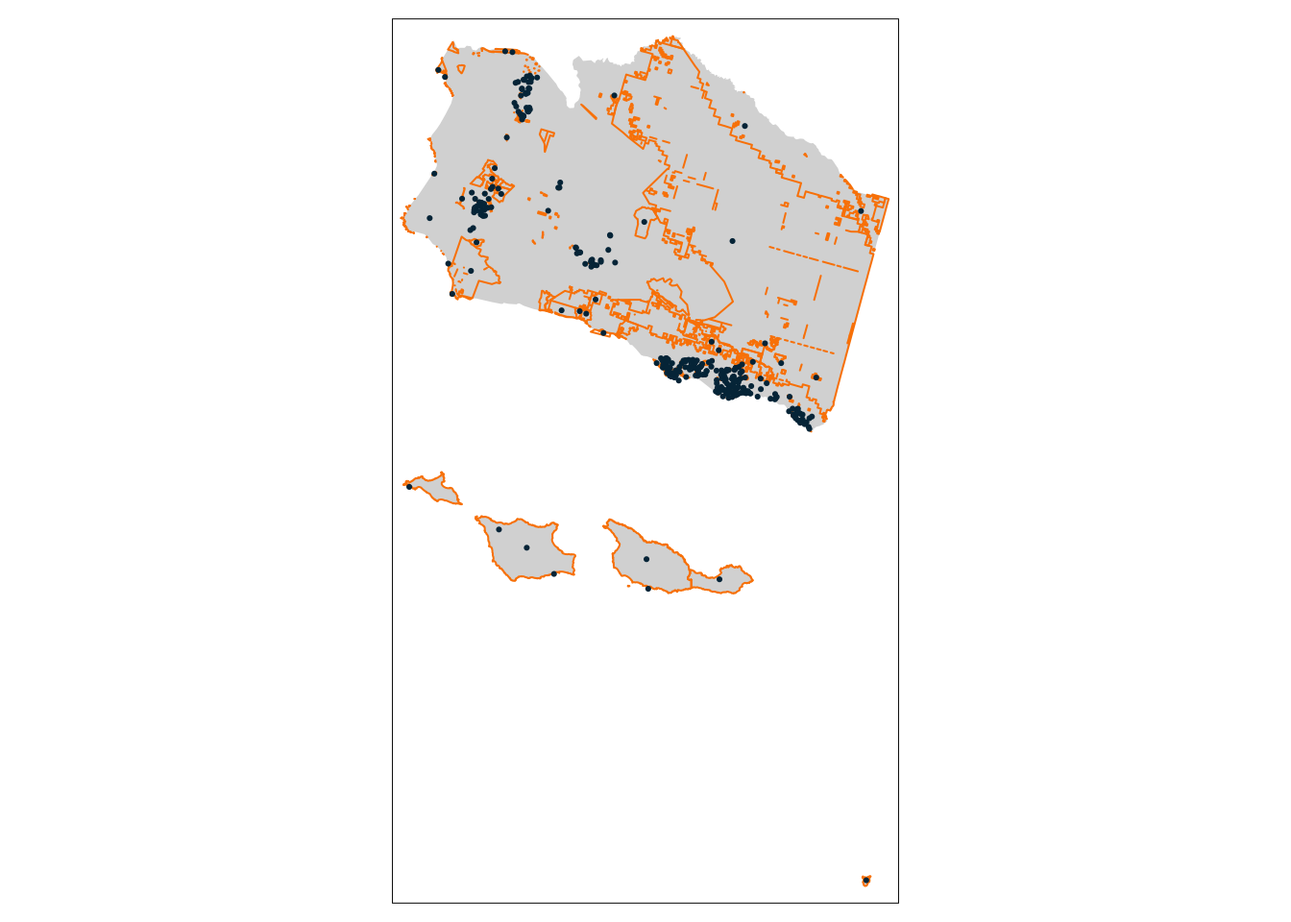
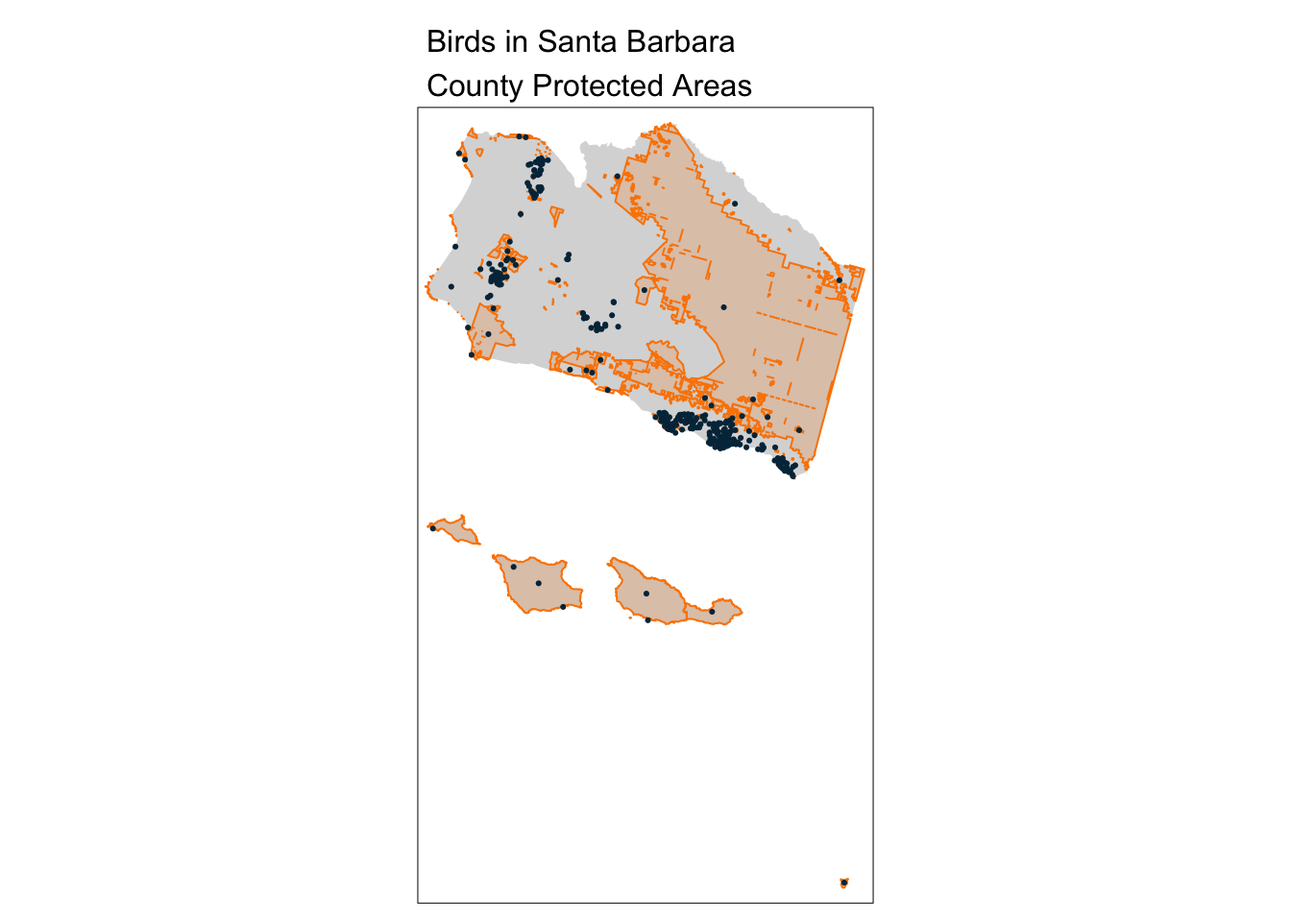
Render website

Changed region(s): [[0.3125, 0.0312, 0.6875, 0.5312], [0.3125, 0.5, 0.5938, 0.6875], [0.6562, 0.9375, 0.6875, 0.9688]]

diff --git a/docs/course-materials/discussions/answer-keys/week3-discussion-answerKey.html b/docs/course-materials/discussions/answer-keys/week3-discussion-answerKey.html
@@ -253,8 +253,22 @@ pre > code.sourceCode > span > a:first-child::before { text-decoration: underlin
 <span id="cb2-14"><a href="#cb2-14" aria-hidden="true" tabindex="-1"></a>aves <span class="ot">&lt;-</span> <span class="fu">read_sf</span>(here<span class="sc">::</span><span class="fu">here</span>(<span class="st">"data"</span>, <span class="st">"aves_observations_2020_2024.shp"</span>)) <span class="sc">%&gt;%</span></span>
 <span id="cb2-15"><a href="#cb2-15" aria-hidden="true" tabindex="-1"></a>  <span class="fu">st_transform</span>(<span class="st">"ESRI:102009"</span>)</span></code><button title="Copy to Clipboard" class="code-copy-button"><i class="bi"></i></button></pre></div>
 </div>
-<p>Approach with spatial subset: - Spatially subset the PA geometries to only those with bird observations</p>
+<p>Approach with spatial subset:</p>
+<ul>
+<li>Spatially subset the PA geometries to only those with bird observations</li>
+</ul>
 <div class="cell">
+<div class="sourceCode cell-code" id="cb3"><pre class="sourceCode r code-with-copy"><code class="sourceCode r"><span id="cb3-1"><a href="#cb3-1" aria-hidden="true" tabindex="-1"></a>aves_PA_subset <span class="ot">&lt;-</span> sb_protected_areas[aves, ]</span>
+<span id="cb3-2"><a href="#cb3-2" aria-hidden="true" tabindex="-1"></a></span>
+<span id="cb3-3"><a href="#cb3-3" aria-hidden="true" tabindex="-1"></a><span class="fu">tm_shape</span>(sb_county_boundary) <span class="sc">+</span></span>
+<span id="cb3-4"><a href="#cb3-4" aria-hidden="true" tabindex="-1"></a>  <span class="fu">tm_fill</span>() <span class="sc">+</span></span>
+<span id="cb3-5"><a href="#cb3-5" aria-hidden="true" tabindex="-1"></a>  <span class="fu">tm_shape</span>(sb_protected_areas) <span class="sc">+</span></span>
+<span id="cb3-6"><a href="#cb3-6" aria-hidden="true" tabindex="-1"></a>    <span class="fu">tm_borders</span>(<span class="at">lwd =</span> <span class="dv">1</span>, <span class="at">col =</span> <span class="st">"#fb8500"</span>) <span class="sc">+</span></span>
+<span id="cb3-7"><a href="#cb3-7" aria-hidden="true" tabindex="-1"></a>    <span class="fu">tm_fill</span>(<span class="at">col =</span> <span class="st">"#fb8500"</span>, <span class="at">alpha =</span> <span class="fl">0.2</span>) <span class="sc">+</span></span>
+<span id="cb3-8"><a href="#cb3-8" aria-hidden="true" tabindex="-1"></a>  <span class="fu">tm_shape</span>(aves_PA_subset) <span class="sc">+</span></span>
+<span id="cb3-9"><a href="#cb3-9" aria-hidden="true" tabindex="-1"></a>    <span class="fu">tm_dots</span>(<span class="at">col =</span> <span class="st">"#023047"</span>) <span class="sc">+</span></span>
+<span id="cb3-10"><a href="#cb3-10" aria-hidden="true" tabindex="-1"></a>  <span class="fu">tm_layout</span>(<span class="at">main.title =</span> <span class="st">"Birds in Santa Barbara</span><span class="sc">\n</span><span class="st">County Protected Areas"</span>,</span>
+<span id="cb3-11"><a href="#cb3-11" aria-hidden="true" tabindex="-1"></a>            <span class="at">main.title.size =</span> <span class="dv">1</span>)</span></code><button title="Copy to Clipboard" class="code-copy-button"><i class="bi"></i></button></pre></div>
 <div class="cell-output-display">
 <div>
 <figure class="figure">
@@ -262,22 +276,27 @@ pre > code.sourceCode > span > a:first-child::before { text-decoration: underlin
 </figure>
 </div>
 </div>
+<div class="sourceCode cell-code" id="cb4"><pre class="sourceCode r code-with-copy"><code class="sourceCode r"><span id="cb4-1"><a href="#cb4-1" aria-hidden="true" tabindex="-1"></a><span class="fu">nrow</span>(aves_PA_subset)</span></code><button title="Copy to Clipboard" class="code-copy-button"><i class="bi"></i></button></pre></div>
 <div class="cell-output cell-output-stdout">
 <pre><code>[1] 35</code></pre>
 </div>
 </div>
-<p>Approach with a spatial join: - Append the Protected Area geometries to the bird observation geometries</p>
+<p>Approach with a spatial join:</p>
+<ul>
+<li>Append the Protected Area geometries to the bird observation geometries</li>
+</ul>
 <div class="cell">
-<div class="sourceCode cell-code" id="cb4"><pre class="sourceCode r code-with-copy"><code class="sourceCode r"><span id="cb4-1"><a href="#cb4-1" aria-hidden="true" tabindex="-1"></a>aves_PA_join <span class="ot">&lt;-</span> <span class="fu">st_join</span>(aves, sb_protected_areas)</span>
-<span id="cb4-2"><a href="#cb4-2" aria-hidden="true" tabindex="-1"></a></span>
-<span id="cb4-3"><a href="#cb4-3" aria-hidden="true" tabindex="-1"></a><span class="fu">tm_shape</span>(sb_county_boundary) <span class="sc">+</span></span>
-<span id="cb4-4"><a href="#cb4-4" aria-hidden="true" tabindex="-1"></a>  <span class="fu">tm_fill</span>() <span class="sc">+</span></span>
-<span id="cb4-5"><a href="#cb4-5" aria-hidden="true" tabindex="-1"></a>  <span class="fu">tm_shape</span>(sb_protected_areas) <span class="sc">+</span></span>
-<span id="cb4-6"><a href="#cb4-6" aria-hidden="true" tabindex="-1"></a>  <span class="fu">tm_borders</span>(<span class="at">lwd =</span> <span class="dv">1</span>, <span class="at">col =</span> <span class="st">"#fb8500"</span>) <span class="sc">+</span></span>
-<span id="cb4-7"><a href="#cb4-7" aria-hidden="true" tabindex="-1"></a>  <span class="fu">tm_shape</span>(aves_PA_join) <span class="sc">+</span></span>
-<span id="cb4-8"><a href="#cb4-8" aria-hidden="true" tabindex="-1"></a>  <span class="fu">tm_dots</span>(<span class="at">col =</span> <span class="st">"#023047"</span>) <span class="sc">+</span></span>
-<span id="cb4-9"><a href="#cb4-9" aria-hidden="true" tabindex="-1"></a>  <span class="fu">tm_layout</span>(<span class="at">main.title =</span> <span class="st">"Birds in Santa Barbara</span><span class="sc">\n</span><span class="st">County Protected Areas"</span>,</span>
-<span id="cb4-10"><a href="#cb4-10" aria-hidden="true" tabindex="-1"></a>            <span class="at">main.title.size =</span> <span class="dv">1</span>)</span></code><button title="Copy to Clipboard" class="code-copy-button"><i class="bi"></i></button></pre></div>
+<div class="sourceCode cell-code" id="cb6"><pre class="sourceCode r code-with-copy"><code class="sourceCode r"><span id="cb6-1"><a href="#cb6-1" aria-hidden="true" tabindex="-1"></a>aves_PA_join <span class="ot">&lt;-</span> <span class="fu">st_join</span>(aves, sb_protected_areas)</span>
+<span id="cb6-2"><a href="#cb6-2" aria-hidden="true" tabindex="-1"></a></span>
+<span id="cb6-3"><a href="#cb6-3" aria-hidden="true" tabindex="-1"></a><span class="fu">tm_shape</span>(sb_county_boundary) <span class="sc">+</span></span>
+<span id="cb6-4"><a href="#cb6-4" aria-hidden="true" tabindex="-1"></a>  <span class="fu">tm_fill</span>() <span class="sc">+</span></span>
+<span id="cb6-5"><a href="#cb6-5" aria-hidden="true" tabindex="-1"></a>  <span class="fu">tm_shape</span>(sb_protected_areas) <span class="sc">+</span></span>
+<span id="cb6-6"><a href="#cb6-6" aria-hidden="true" tabindex="-1"></a>    <span class="fu">tm_borders</span>(<span class="at">lwd =</span> <span class="dv">1</span>, <span class="at">col =</span> <span class="st">"#fb8500"</span>) <span class="sc">+</span></span>
+<span id="cb6-7"><a href="#cb6-7" aria-hidden="true" tabindex="-1"></a>    <span class="fu">tm_fill</span>(<span class="at">col =</span> <span class="st">"#fb8500"</span>, <span class="at">alpha =</span> <span class="fl">0.2</span>) <span class="sc">+</span></span>
+<span id="cb6-8"><a href="#cb6-8" aria-hidden="true" tabindex="-1"></a>  <span class="fu">tm_shape</span>(aves_PA_join) <span class="sc">+</span></span>
+<span id="cb6-9"><a href="#cb6-9" aria-hidden="true" tabindex="-1"></a>    <span class="fu">tm_dots</span>(<span class="at">col =</span> <span class="st">"#023047"</span>) <span class="sc">+</span></span>
+<span id="cb6-10"><a href="#cb6-10" aria-hidden="true" tabindex="-1"></a>  <span class="fu">tm_layout</span>(<span class="at">main.title =</span> <span class="st">"Birds in Santa Barbara</span><span class="sc">\n</span><span class="st">County Protected Areas"</span>,</span>
+<span id="cb6-11"><a href="#cb6-11" aria-hidden="true" tabindex="-1"></a>            <span class="at">main.title.size =</span> <span class="dv">1</span>)</span></code><button title="Copy to Clipboard" class="code-copy-button"><i class="bi"></i></button></pre></div>
 <div class="cell-output-display">
 <div>
 <figure class="figure">
@@ -285,31 +304,33 @@ pre > code.sourceCode > span > a:first-child::before { text-decoration: underlin
 </figure>
 </div>
 </div>
-<div class="sourceCode cell-code" id="cb5"><pre class="sourceCode r code-with-copy"><code class="sourceCode r"><span id="cb5-1"><a href="#cb5-1" aria-hidden="true" tabindex="-1"></a><span class="fu">nrow</span>(aves_PA_join)</span></code><button title="Copy to Clipboard" class="code-copy-button"><i class="bi"></i></button></pre></div>
+<div class="sourceCode cell-code" id="cb7"><pre class="sourceCode r code-with-copy"><code class="sourceCode r"><span id="cb7-1"><a href="#cb7-1" aria-hidden="true" tabindex="-1"></a><span class="fu">nrow</span>(aves_PA_join)</span></code><button title="Copy to Clipboard" class="code-copy-button"><i class="bi"></i></button></pre></div>
 <div class="cell-output cell-output-stdout">
 <pre><code>[1] 500</code></pre>
 </div>
 </div>
 <p>And try adding a 5 km buffer around the protected areas:</p>
 <div class="cell">
-<div class="sourceCode cell-code" id="cb7"><pre class="sourceCode r code-with-copy"><code class="sourceCode r"><span id="cb7-1"><a href="#cb7-1" aria-hidden="true" tabindex="-1"></a><span class="co"># Check if units are in meters</span></span>
-<span id="cb7-2"><a href="#cb7-2" aria-hidden="true" tabindex="-1"></a><span class="fu">st_crs</span>(sb_protected_areas)<span class="sc">$</span>units</span></code><button title="Copy to Clipboard" class="code-copy-button"><i class="bi"></i></button></pre></div>
+<div class="sourceCode cell-code" id="cb9"><pre class="sourceCode r code-with-copy"><code class="sourceCode r"><span id="cb9-1"><a href="#cb9-1" aria-hidden="true" tabindex="-1"></a><span class="co"># Check if units are in meters</span></span>
+<span id="cb9-2"><a href="#cb9-2" aria-hidden="true" tabindex="-1"></a><span class="fu">st_crs</span>(sb_protected_areas)<span class="sc">$</span>units</span></code><button title="Copy to Clipboard" class="code-copy-button"><i class="bi"></i></button></pre></div>
 <div class="cell-output cell-output-stdout">
 <pre><code>[1] "m"</code></pre>
 </div>
-<div class="sourceCode cell-code" id="cb9"><pre class="sourceCode r code-with-copy"><code class="sourceCode r"><span id="cb9-1"><a href="#cb9-1" aria-hidden="true" tabindex="-1"></a><span class="co"># Create 5000m buffer around PAs</span></span>
-<span id="cb9-2"><a href="#cb9-2" aria-hidden="true" tabindex="-1"></a>PA_buffer_5km <span class="ot">&lt;-</span> <span class="fu">st_buffer</span>(sb_protected_areas, <span class="at">dist =</span> <span class="dv">5000</span>)</span>
-<span id="cb9-3"><a href="#cb9-3" aria-hidden="true" tabindex="-1"></a></span>
-<span id="cb9-4"><a href="#cb9-4" aria-hidden="true" tabindex="-1"></a><span class="co"># Subset the buffered PA geoms to only those with bird observations</span></span>
-<span id="cb9-5"><a href="#cb9-5" aria-hidden="true" tabindex="-1"></a>aves_buffer_subset <span class="ot">&lt;-</span> PA_buffer_5km[aves, ]</span>
-<span id="cb9-6"><a href="#cb9-6" aria-hidden="true" tabindex="-1"></a></span>
-<span id="cb9-7"><a href="#cb9-7" aria-hidden="true" tabindex="-1"></a><span class="fu">tm_shape</span>(sb_county_boundary) <span class="sc">+</span></span>
-<span id="cb9-8"><a href="#cb9-8" aria-hidden="true" tabindex="-1"></a>  <span class="fu">tm_fill</span>() <span class="sc">+</span></span>
-<span id="cb9-9"><a href="#cb9-9" aria-hidden="true" tabindex="-1"></a>  <span class="fu">tm_shape</span>(sb_protected_areas) <span class="sc">+</span></span>
-<span id="cb9-10"><a href="#cb9-10" aria-hidden="true" tabindex="-1"></a>  <span class="fu">tm_borders</span>(<span class="at">lwd =</span> <span class="dv">1</span>,</span>
-<span id="cb9-11"><a href="#cb9-11" aria-hidden="true" tabindex="-1"></a>             <span class="at">col =</span> <span class="st">"#fb8500"</span>) <span class="sc">+</span></span>
-<span id="cb9-12"><a href="#cb9-12" aria-hidden="true" tabindex="-1"></a>  <span class="fu">tm_shape</span>(aves_buffer_subset) <span class="sc">+</span></span>
-<span id="cb9-13"><a href="#cb9-13" aria-hidden="true" tabindex="-1"></a>  <span class="fu">tm_dots</span>(<span class="at">col =</span> <span class="st">"#023047"</span>)</span></code><button title="Copy to Clipboard" class="code-copy-button"><i class="bi"></i></button></pre></div>
+<div class="sourceCode cell-code" id="cb11"><pre class="sourceCode r code-with-copy"><code class="sourceCode r"><span id="cb11-1"><a href="#cb11-1" aria-hidden="true" tabindex="-1"></a><span class="co"># Create 5000m buffer around PAs</span></span>
+<span id="cb11-2"><a href="#cb11-2" aria-hidden="true" tabindex="-1"></a>PA_buffer_5km <span class="ot">&lt;-</span> <span class="fu">st_buffer</span>(sb_protected_areas, <span class="at">dist =</span> <span class="dv">5000</span>)</span>
+<span id="cb11-3"><a href="#cb11-3" aria-hidden="true" tabindex="-1"></a></span>
+<span id="cb11-4"><a href="#cb11-4" aria-hidden="true" tabindex="-1"></a><span class="co"># Subset the buffered PA geoms to only those with bird observations</span></span>
+<span id="cb11-5"><a href="#cb11-5" aria-hidden="true" tabindex="-1"></a>aves_buffer_subset <span class="ot">&lt;-</span> PA_buffer_5km[aves, ]</span>
+<span id="cb11-6"><a href="#cb11-6" aria-hidden="true" tabindex="-1"></a></span>
+<span id="cb11-7"><a href="#cb11-7" aria-hidden="true" tabindex="-1"></a><span class="fu">tm_shape</span>(sb_county_boundary) <span class="sc">+</span></span>
+<span id="cb11-8"><a href="#cb11-8" aria-hidden="true" tabindex="-1"></a>  <span class="fu">tm_fill</span>() <span class="sc">+</span></span>
+<span id="cb11-9"><a href="#cb11-9" aria-hidden="true" tabindex="-1"></a>  <span class="fu">tm_shape</span>(sb_protected_areas) <span class="sc">+</span></span>
+<span id="cb11-10"><a href="#cb11-10" aria-hidden="true" tabindex="-1"></a>    <span class="fu">tm_borders</span>(<span class="at">lwd =</span> <span class="dv">1</span>, <span class="at">col =</span> <span class="st">"#fb8500"</span>) <span class="sc">+</span></span>
+<span id="cb11-11"><a href="#cb11-11" aria-hidden="true" tabindex="-1"></a>    <span class="fu">tm_fill</span>(<span class="at">col =</span> <span class="st">"#fb8500"</span>, <span class="at">alpha =</span> <span class="fl">0.2</span>) <span class="sc">+</span></span>
+<span id="cb11-12"><a href="#cb11-12" aria-hidden="true" tabindex="-1"></a>  <span class="fu">tm_shape</span>(aves_buffer_subset) <span class="sc">+</span></span>
+<span id="cb11-13"><a href="#cb11-13" aria-hidden="true" tabindex="-1"></a>  <span class="fu">tm_dots</span>(<span class="at">col =</span> <span class="st">"#023047"</span>) <span class="sc">+</span></span>
+<span id="cb11-14"><a href="#cb11-14" aria-hidden="true" tabindex="-1"></a>  <span class="fu">tm_layout</span>(<span class="at">main.title =</span> <span class="st">"Birds in Santa Barbara</span><span class="sc">\n</span><span class="st">County Protected Areas"</span>,</span>
+<span id="cb11-15"><a href="#cb11-15" aria-hidden="true" tabindex="-1"></a>            <span class="at">main.title.size =</span> <span class="dv">1</span>)</span></code><button title="Copy to Clipboard" class="code-copy-button"><i class="bi"></i></button></pre></div>
 <div class="cell-output-display">
 <div>
 <figure class="figure">
@@ -317,7 +338,7 @@ pre > code.sourceCode > span > a:first-child::before { text-decoration: underlin
 </figure>
 </div>
 </div>
-<div class="sourceCode cell-code" id="cb10"><pre class="sourceCode r code-with-copy"><code class="sourceCode r"><span id="cb10-1"><a href="#cb10-1" aria-hidden="true" tabindex="-1"></a><span class="fu">nrow</span>(aves_buffer_subset)</span></code><button title="Copy to Clipboard" class="code-copy-button"><i class="bi"></i></button></pre></div>
+<div class="sourceCode cell-code" id="cb12"><pre class="sourceCode r code-with-copy"><code class="sourceCode r"><span id="cb12-1"><a href="#cb12-1" aria-hidden="true" tabindex="-1"></a><span class="fu">nrow</span>(aves_buffer_subset)</span></code><button title="Copy to Clipboard" class="code-copy-button"><i class="bi"></i></button></pre></div>
 <div class="cell-output cell-output-stdout">
 <pre><code>[1] 327</code></pre>
 </div>
@@ -326,36 +347,36 @@ pre > code.sourceCode > span > a:first-child::before { text-decoration: underlin
 <section id="find-pas-within-15-km-of-goleta" class="level2">
 <h2 class="anchored" data-anchor-id="find-pas-within-15-km-of-goleta">Find PAs within 15 km of Goleta</h2>
 <div class="cell">
-<div class="sourceCode cell-code" id="cb12"><pre class="sourceCode r code-with-copy"><code class="sourceCode r"><span id="cb12-1"><a href="#cb12-1" aria-hidden="true" tabindex="-1"></a><span class="co"># Subset SB county to Goleta</span></span>
-<span id="cb12-2"><a href="#cb12-2" aria-hidden="true" tabindex="-1"></a>goleta <span class="ot">&lt;-</span> sb_city_boundaries <span class="sc">%&gt;%</span></span>
-<span id="cb12-3"><a href="#cb12-3" aria-hidden="true" tabindex="-1"></a>  dplyr<span class="sc">::</span><span class="fu">filter</span>(NAME <span class="sc">==</span> <span class="st">"Goleta"</span>)</span>
-<span id="cb12-4"><a href="#cb12-4" aria-hidden="true" tabindex="-1"></a></span>
-<span id="cb12-5"><a href="#cb12-5" aria-hidden="true" tabindex="-1"></a><span class="co"># Create 15km buffer around Goleta</span></span>
-<span id="cb12-6"><a href="#cb12-6" aria-hidden="true" tabindex="-1"></a><span class="fu">st_crs</span>(goleta)<span class="sc">$</span>units</span></code><button title="Copy to Clipboard" class="code-copy-button"><i class="bi"></i></button></pre></div>
+<div class="sourceCode cell-code" id="cb14"><pre class="sourceCode r code-with-copy"><code class="sourceCode r"><span id="cb14-1"><a href="#cb14-1" aria-hidden="true" tabindex="-1"></a><span class="co"># Subset SB county to Goleta</span></span>
+<span id="cb14-2"><a href="#cb14-2" aria-hidden="true" tabindex="-1"></a>goleta <span class="ot">&lt;-</span> sb_city_boundaries <span class="sc">%&gt;%</span></span>
+<span id="cb14-3"><a href="#cb14-3" aria-hidden="true" tabindex="-1"></a>  dplyr<span class="sc">::</span><span class="fu">filter</span>(NAME <span class="sc">==</span> <span class="st">"Goleta"</span>)</span>
+<span id="cb14-4"><a href="#cb14-4" aria-hidden="true" tabindex="-1"></a></span>
+<span id="cb14-5"><a href="#cb14-5" aria-hidden="true" tabindex="-1"></a><span class="co"># Create 15km buffer around Goleta</span></span>
+<span id="cb14-6"><a href="#cb14-6" aria-hidden="true" tabindex="-1"></a><span class="fu">st_crs</span>(goleta)<span class="sc">$</span>units</span></code><button title="Copy to Clipboard" class="code-copy-button"><i class="bi"></i></button></pre></div>
 <div class="cell-output cell-output-stdout">
 <pre><code>[1] "m"</code></pre>
 </div>
-<div class="sourceCode cell-code" id="cb14"><pre class="sourceCode r code-with-copy"><code class="sourceCode r"><span id="cb14-1"><a href="#cb14-1" aria-hidden="true" tabindex="-1"></a>goleta_buffer_15km <span class="ot">&lt;-</span> <span class="fu">st_buffer</span>(goleta, <span class="at">dist =</span> <span class="dv">15000</span>)</span>
-<span id="cb14-2"><a href="#cb14-2" aria-hidden="true" tabindex="-1"></a></span>
-<span id="cb14-3"><a href="#cb14-3" aria-hidden="true" tabindex="-1"></a><span class="co"># Explore the different outputs with different spatial operations</span></span>
-<span id="cb14-4"><a href="#cb14-4" aria-hidden="true" tabindex="-1"></a>goleta_PAs_within <span class="ot">&lt;-</span> <span class="fu">st_within</span>(sb_protected_areas, goleta_buffer_15km)</span>
-<span id="cb14-5"><a href="#cb14-5" aria-hidden="true" tabindex="-1"></a>goleta_PAs_intersect <span class="ot">&lt;-</span> <span class="fu">st_intersects</span>(sb_protected_areas, goleta_buffer_15km)</span>
-<span id="cb14-6"><a href="#cb14-6" aria-hidden="true" tabindex="-1"></a>goleta_PAs_intersection <span class="ot">&lt;-</span> <span class="fu">st_intersection</span>(sb_protected_areas, goleta_buffer_15km)</span>
-<span id="cb14-7"><a href="#cb14-7" aria-hidden="true" tabindex="-1"></a></span>
-<span id="cb14-8"><a href="#cb14-8" aria-hidden="true" tabindex="-1"></a><span class="co"># Check class</span></span>
-<span id="cb14-9"><a href="#cb14-9" aria-hidden="true" tabindex="-1"></a><span class="fu">class</span>(goleta_PAs_intersect) <span class="sc">==</span> <span class="fu">class</span>(goleta_PAs_intersection)</span></code><button title="Copy to Clipboard" class="code-copy-button"><i class="bi"></i></button></pre></div>
+<div class="sourceCode cell-code" id="cb16"><pre class="sourceCode r code-with-copy"><code class="sourceCode r"><span id="cb16-1"><a href="#cb16-1" aria-hidden="true" tabindex="-1"></a>goleta_buffer_15km <span class="ot">&lt;-</span> <span class="fu">st_buffer</span>(goleta, <span class="at">dist =</span> <span class="dv">15000</span>)</span>
+<span id="cb16-2"><a href="#cb16-2" aria-hidden="true" tabindex="-1"></a></span>
+<span id="cb16-3"><a href="#cb16-3" aria-hidden="true" tabindex="-1"></a><span class="co"># Explore the different outputs with different spatial operations</span></span>
+<span id="cb16-4"><a href="#cb16-4" aria-hidden="true" tabindex="-1"></a>goleta_PAs_within <span class="ot">&lt;-</span> <span class="fu">st_within</span>(sb_protected_areas, goleta_buffer_15km)</span>
+<span id="cb16-5"><a href="#cb16-5" aria-hidden="true" tabindex="-1"></a>goleta_PAs_intersect <span class="ot">&lt;-</span> <span class="fu">st_intersects</span>(sb_protected_areas, goleta_buffer_15km)</span>
+<span id="cb16-6"><a href="#cb16-6" aria-hidden="true" tabindex="-1"></a>goleta_PAs_intersection <span class="ot">&lt;-</span> <span class="fu">st_intersection</span>(sb_protected_areas, goleta_buffer_15km)</span>
+<span id="cb16-7"><a href="#cb16-7" aria-hidden="true" tabindex="-1"></a></span>
+<span id="cb16-8"><a href="#cb16-8" aria-hidden="true" tabindex="-1"></a><span class="co"># Check class</span></span>
+<span id="cb16-9"><a href="#cb16-9" aria-hidden="true" tabindex="-1"></a><span class="fu">class</span>(goleta_PAs_intersect) <span class="sc">==</span> <span class="fu">class</span>(goleta_PAs_intersection)</span></code><button title="Copy to Clipboard" class="code-copy-button"><i class="bi"></i></button></pre></div>
 <div class="cell-output cell-output-stdout">
 <pre><code>[1] FALSE FALSE FALSE FALSE</code></pre>
 </div>
-<div class="sourceCode cell-code" id="cb16"><pre class="sourceCode r code-with-copy"><code class="sourceCode r"><span id="cb16-1"><a href="#cb16-1" aria-hidden="true" tabindex="-1"></a><span class="co"># Compute distance-based join</span></span>
-<span id="cb16-2"><a href="#cb16-2" aria-hidden="true" tabindex="-1"></a>goleta_PAs_join <span class="ot">&lt;-</span> <span class="fu">st_join</span>(sb_protected_areas, goleta, st_is_within_distance, <span class="at">dist =</span> <span class="dv">15000</span>)</span>
-<span id="cb16-3"><a href="#cb16-3" aria-hidden="true" tabindex="-1"></a></span>
-<span id="cb16-4"><a href="#cb16-4" aria-hidden="true" tabindex="-1"></a><span class="co"># Print the number of observations included in outputs</span></span>
-<span id="cb16-5"><a href="#cb16-5" aria-hidden="true" tabindex="-1"></a><span class="fu">nrow</span>(goleta_PAs_intersection)</span></code><button title="Copy to Clipboard" class="code-copy-button"><i class="bi"></i></button></pre></div>
+<div class="sourceCode cell-code" id="cb18"><pre class="sourceCode r code-with-copy"><code class="sourceCode r"><span id="cb18-1"><a href="#cb18-1" aria-hidden="true" tabindex="-1"></a><span class="co"># Compute distance-based join</span></span>
+<span id="cb18-2"><a href="#cb18-2" aria-hidden="true" tabindex="-1"></a>goleta_PAs_join <span class="ot">&lt;-</span> <span class="fu">st_join</span>(sb_protected_areas, goleta, st_is_within_distance, <span class="at">dist =</span> <span class="dv">15000</span>)</span>
+<span id="cb18-3"><a href="#cb18-3" aria-hidden="true" tabindex="-1"></a></span>
+<span id="cb18-4"><a href="#cb18-4" aria-hidden="true" tabindex="-1"></a><span class="co"># Print the number of observations included in outputs</span></span>
+<span id="cb18-5"><a href="#cb18-5" aria-hidden="true" tabindex="-1"></a><span class="fu">nrow</span>(goleta_PAs_intersection)</span></code><button title="Copy to Clipboard" class="code-copy-button"><i class="bi"></i></button></pre></div>
 <div class="cell-output cell-output-stdout">
 <pre><code>[1] 185</code></pre>
 </div>
-<div class="sourceCode cell-code" id="cb18"><pre class="sourceCode r code-with-copy"><code class="sourceCode r"><span id="cb18-1"><a href="#cb18-1" aria-hidden="true" tabindex="-1"></a><span class="fu">nrow</span>(goleta_PAs_join)</span></code><button title="Copy to Clipboard" class="code-copy-button"><i class="bi"></i></button></pre></div>
+<div class="sourceCode cell-code" id="cb20"><pre class="sourceCode r code-with-copy"><code class="sourceCode r"><span id="cb20-1"><a href="#cb20-1" aria-hidden="true" tabindex="-1"></a><span class="fu">nrow</span>(goleta_PAs_join)</span></code><button title="Copy to Clipboard" class="code-copy-button"><i class="bi"></i></button></pre></div>
 <div class="cell-output cell-output-stdout">
 <pre><code>[1] 369</code></pre>
 </div>
@@ -364,21 +385,21 @@ pre > code.sourceCode > span > a:first-child::before { text-decoration: underlin
 <section id="find-distance-between-goleta-and-dangermond-preserve" class="level2">
 <h2 class="anchored" data-anchor-id="find-distance-between-goleta-and-dangermond-preserve">Find Distance between Goleta and Dangermond Preserve</h2>
 <div class="cell">
-<div class="sourceCode cell-code" id="cb20"><pre class="sourceCode r code-with-copy"><code class="sourceCode r"><span id="cb20-1"><a href="#cb20-1" aria-hidden="true" tabindex="-1"></a><span class="co"># Subset PA to Dangermond Preserve</span></span>
-<span id="cb20-2"><a href="#cb20-2" aria-hidden="true" tabindex="-1"></a>dangermond <span class="ot">&lt;-</span> sb_protected_areas <span class="sc">%&gt;%</span></span>
-<span id="cb20-3"><a href="#cb20-3" aria-hidden="true" tabindex="-1"></a>  dplyr<span class="sc">::</span><span class="fu">filter</span>(UNIT_NAME <span class="sc">==</span> <span class="st">"Jack and Laura Dangermond Preserve"</span>)</span>
-<span id="cb20-4"><a href="#cb20-4" aria-hidden="true" tabindex="-1"></a></span>
-<span id="cb20-5"><a href="#cb20-5" aria-hidden="true" tabindex="-1"></a><span class="co"># Compute the distance between geometries edges, output as a matrix</span></span>
-<span id="cb20-6"><a href="#cb20-6" aria-hidden="true" tabindex="-1"></a>danger_dist <span class="ot">&lt;-</span> <span class="fu">st_distance</span>(goleta, dangermond)</span>
-<span id="cb20-7"><a href="#cb20-7" aria-hidden="true" tabindex="-1"></a></span>
-<span id="cb20-8"><a href="#cb20-8" aria-hidden="true" tabindex="-1"></a><span class="co"># Calculate the geometric center</span></span>
-<span id="cb20-9"><a href="#cb20-9" aria-hidden="true" tabindex="-1"></a>dangermond_centroid <span class="ot">&lt;-</span> <span class="fu">st_centroid</span>(dangermond)</span>
-<span id="cb20-10"><a href="#cb20-10" aria-hidden="true" tabindex="-1"></a>goleta_centroid <span class="ot">&lt;-</span> <span class="fu">st_centroid</span>(goleta)</span>
-<span id="cb20-11"><a href="#cb20-11" aria-hidden="true" tabindex="-1"></a></span>
-<span id="cb20-12"><a href="#cb20-12" aria-hidden="true" tabindex="-1"></a>danger_dist_centroid <span class="ot">&lt;-</span> <span class="fu">st_distance</span>(goleta_centroid, dangermond_centroid)</span>
-<span id="cb20-13"><a href="#cb20-13" aria-hidden="true" tabindex="-1"></a></span>
-<span id="cb20-14"><a href="#cb20-14" aria-hidden="true" tabindex="-1"></a><span class="co"># Check if the distance matrices are equal</span></span>
-<span id="cb20-15"><a href="#cb20-15" aria-hidden="true" tabindex="-1"></a>danger_dist <span class="sc">==</span> danger_dist_centroid</span></code><button title="Copy to Clipboard" class="code-copy-button"><i class="bi"></i></button></pre></div>
+<div class="sourceCode cell-code" id="cb22"><pre class="sourceCode r code-with-copy"><code class="sourceCode r"><span id="cb22-1"><a href="#cb22-1" aria-hidden="true" tabindex="-1"></a><span class="co"># Subset PA to Dangermond Preserve</span></span>
+<span id="cb22-2"><a href="#cb22-2" aria-hidden="true" tabindex="-1"></a>dangermond <span class="ot">&lt;-</span> sb_protected_areas <span class="sc">%&gt;%</span></span>
+<span id="cb22-3"><a href="#cb22-3" aria-hidden="true" tabindex="-1"></a>  dplyr<span class="sc">::</span><span class="fu">filter</span>(UNIT_NAME <span class="sc">==</span> <span class="st">"Jack and Laura Dangermond Preserve"</span>)</span>
+<span id="cb22-4"><a href="#cb22-4" aria-hidden="true" tabindex="-1"></a></span>
+<span id="cb22-5"><a href="#cb22-5" aria-hidden="true" tabindex="-1"></a><span class="co"># Compute the distance between geometries edges, output as a matrix</span></span>
+<span id="cb22-6"><a href="#cb22-6" aria-hidden="true" tabindex="-1"></a>danger_dist <span class="ot">&lt;-</span> <span class="fu">st_distance</span>(goleta, dangermond)</span>
+<span id="cb22-7"><a href="#cb22-7" aria-hidden="true" tabindex="-1"></a></span>
+<span id="cb22-8"><a href="#cb22-8" aria-hidden="true" tabindex="-1"></a><span class="co"># Calculate the geometric center</span></span>
+<span id="cb22-9"><a href="#cb22-9" aria-hidden="true" tabindex="-1"></a>dangermond_centroid <span class="ot">&lt;-</span> <span class="fu">st_centroid</span>(dangermond)</span>
+<span id="cb22-10"><a href="#cb22-10" aria-hidden="true" tabindex="-1"></a>goleta_centroid <span class="ot">&lt;-</span> <span class="fu">st_centroid</span>(goleta)</span>
+<span id="cb22-11"><a href="#cb22-11" aria-hidden="true" tabindex="-1"></a></span>
+<span id="cb22-12"><a href="#cb22-12" aria-hidden="true" tabindex="-1"></a>danger_dist_centroid <span class="ot">&lt;-</span> <span class="fu">st_distance</span>(goleta_centroid, dangermond_centroid)</span>
+<span id="cb22-13"><a href="#cb22-13" aria-hidden="true" tabindex="-1"></a></span>
+<span id="cb22-14"><a href="#cb22-14" aria-hidden="true" tabindex="-1"></a><span class="co"># Check if the distance matrices are equal</span></span>
+<span id="cb22-15"><a href="#cb22-15" aria-hidden="true" tabindex="-1"></a>danger_dist <span class="sc">==</span> danger_dist_centroid</span></code><button title="Copy to Clipboard" class="code-copy-button"><i class="bi"></i></button></pre></div>
 <div class="cell-output cell-output-stdout">
 <pre><code>      [,1]
 [1,] FALSE</code></pre>
